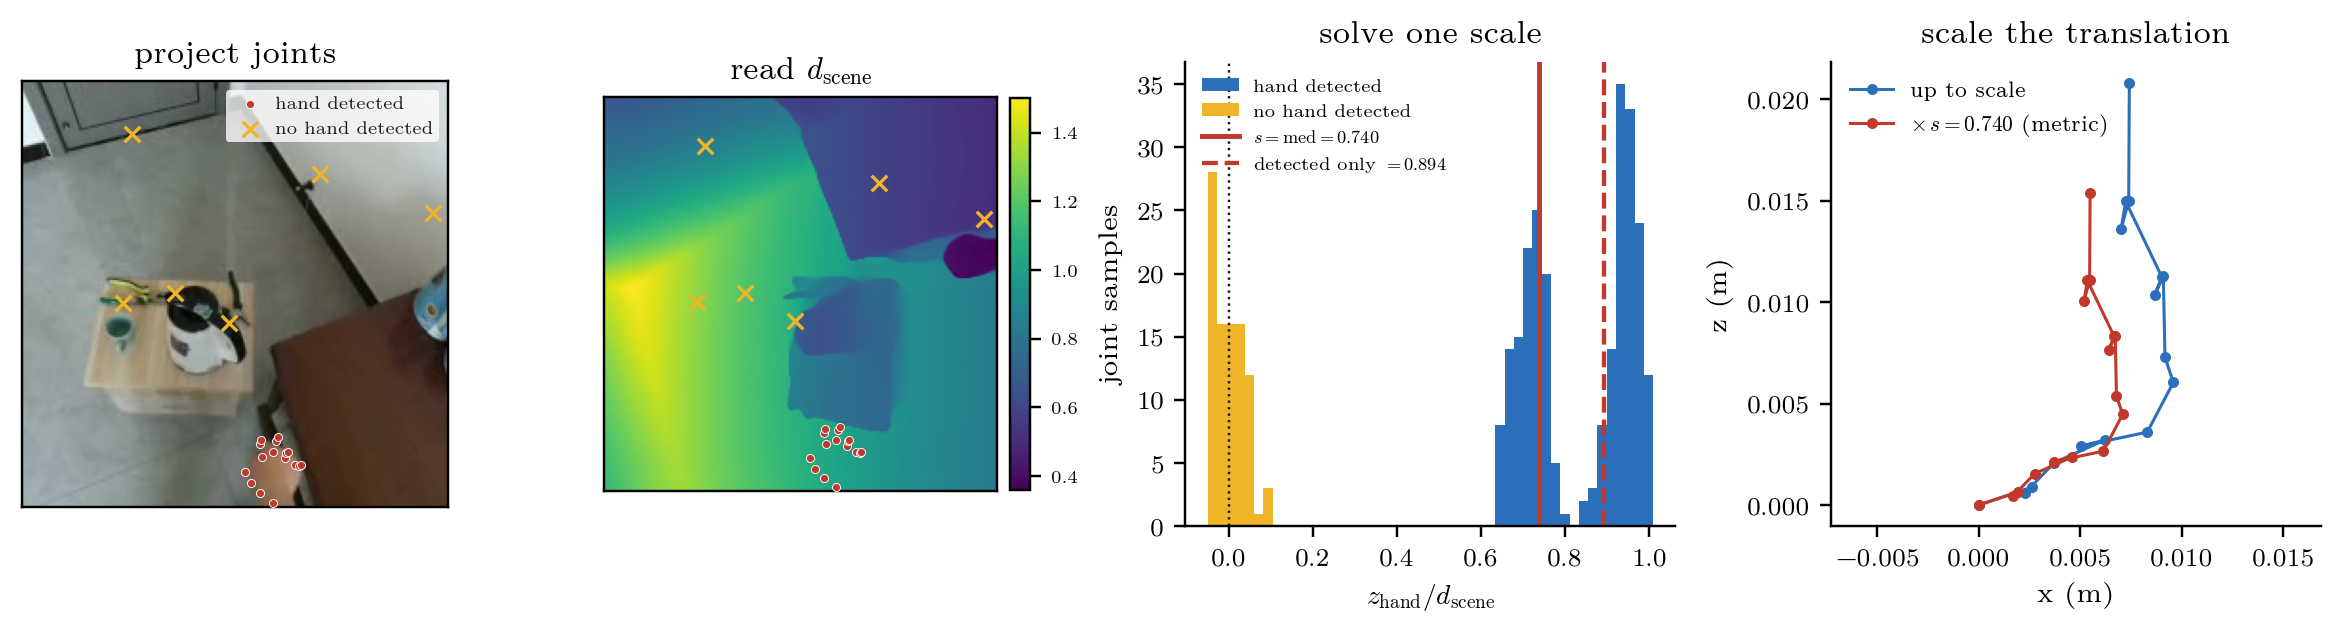
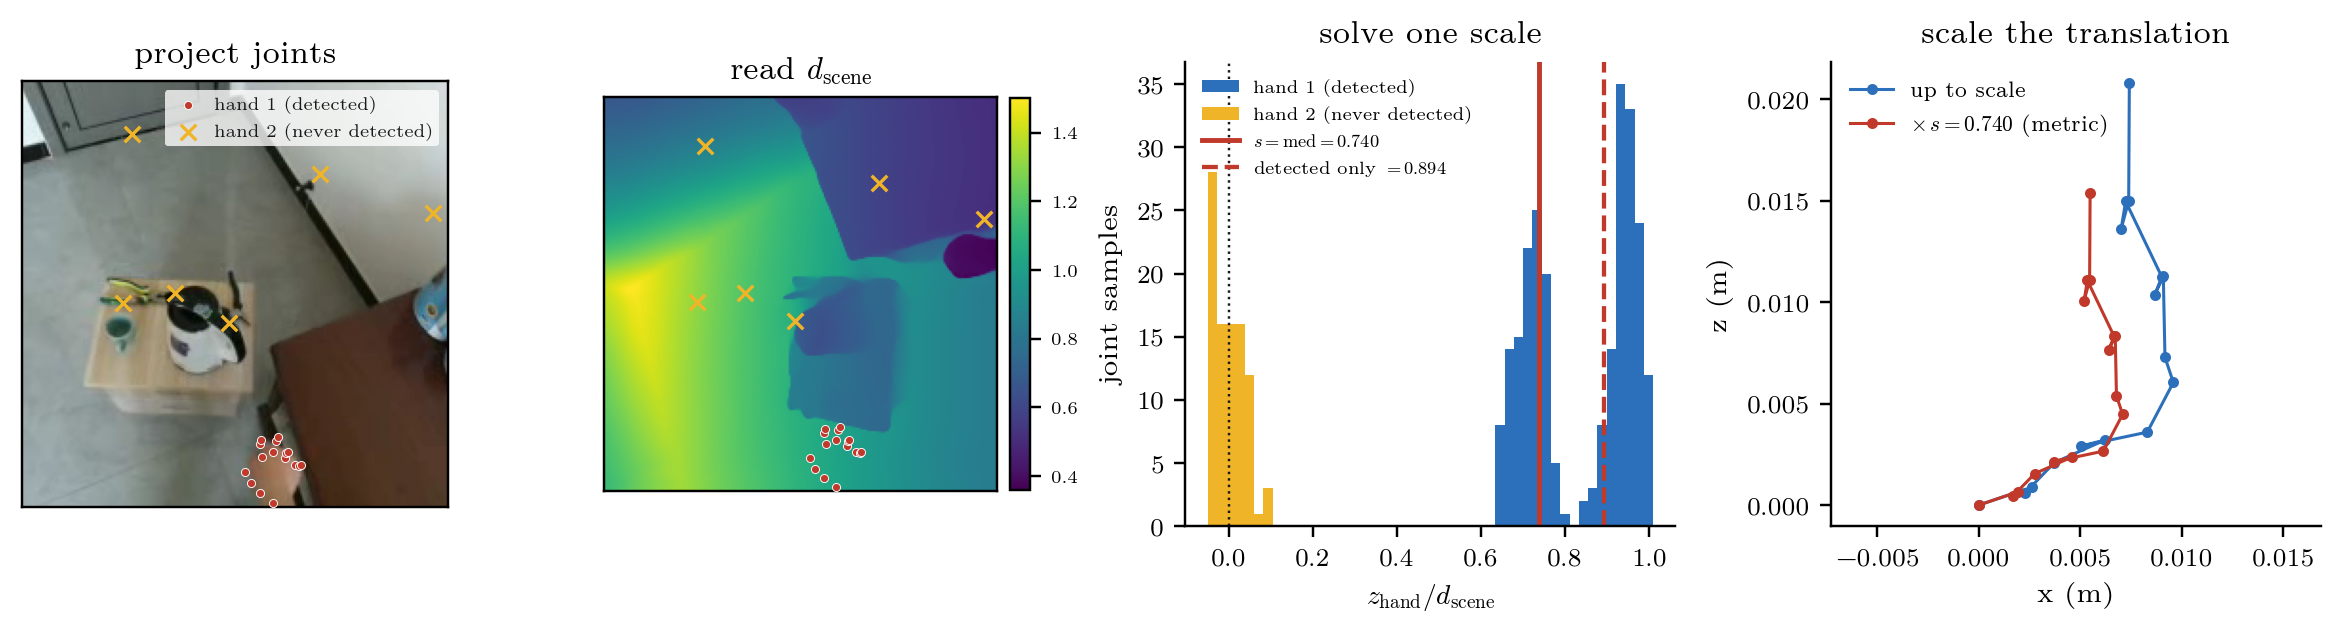
docs: name the hand SLOT in the figure legend, not the location
'no hand detected' reads as a claim about the place ('a hand here went
undetected'), which makes crosses on a door incomprehensible. The claim is
about the MARKER: the model always emits two hands, the detector never found
a second one on this sequence, and slot 2's joints land wherever the
unconstrained default pose projects. 'hand 2 (never detected)' says that.

Changed region(s): [[0.4987, 0.1197, 0.6234, 0.2693], [0.0623, 0.1197, 0.187, 0.2394]]

diff --git a/scripts/plot_registration_steps.py b/scripts/plot_registration_steps.py
@@ -105,10 +105,10 @@ def main() -> None:
         if not v_.any():
             return
         ax.scatter(px[~slot0], py[~slot0], s=7, c=ACCENT,
-                   edgecolors="white", linewidths=0.3, zorder=3, label="hand detected")
+                   edgecolors="white", linewidths=0.3, zorder=3, label="hand 1 (detected)")
         if slot0.any():
             ax.scatter(px[slot0], py[slot0], s=26, marker="x", c="#f0b429",
-                       linewidths=1.1, zorder=4, label="no hand detected")
+                       linewidths=1.1, zorder=4, label="hand 2 (never detected)")
         if legend:
             # A frameless white legend sits on a bright wall in this scene and disappears. Give it
             # a translucent plate and dark text so it survives whatever frame is chosen.
@@ -147,7 +147,7 @@ def main() -> None:
     bins = np.linspace(min(lo, 0.0), hi, 49)
     # Stacked, so the reader sees WHICH population the left lobe is rather than being told.
     ax.hist([r_det, r_und], bins=bins, stacked=True, color=[COOL, "#f0b429"],
-            edgecolor="none", label=["hand detected", "no hand detected"])
+            edgecolor="none", label=["hand 1 (detected)", "hand 2 (never detected)"])
     ax.axvline(s, color=ACCENT, lw=1.6, label=rf"$s=\mathrm{{med}}={s:.3f}$")
     if r_det.size:
         ax.axvline(float(np.median(r_det)), color=ACCENT, lw=1.4, ls="--",
